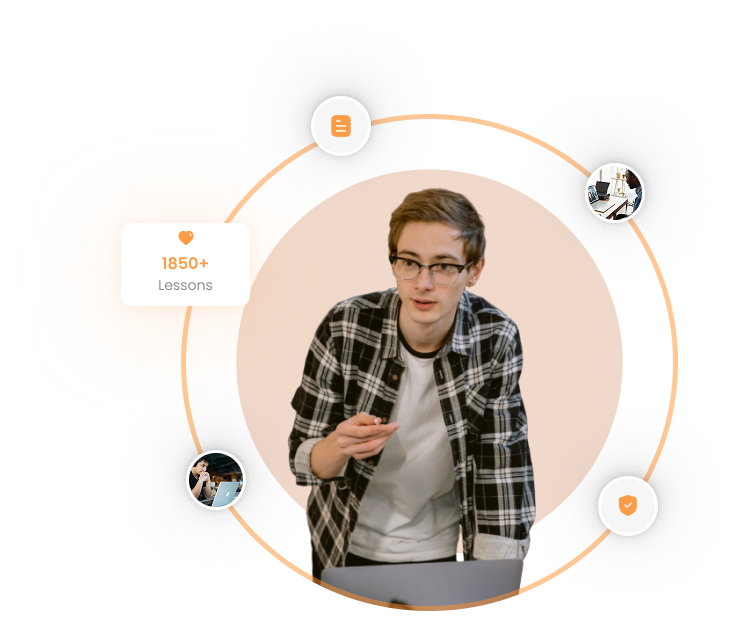
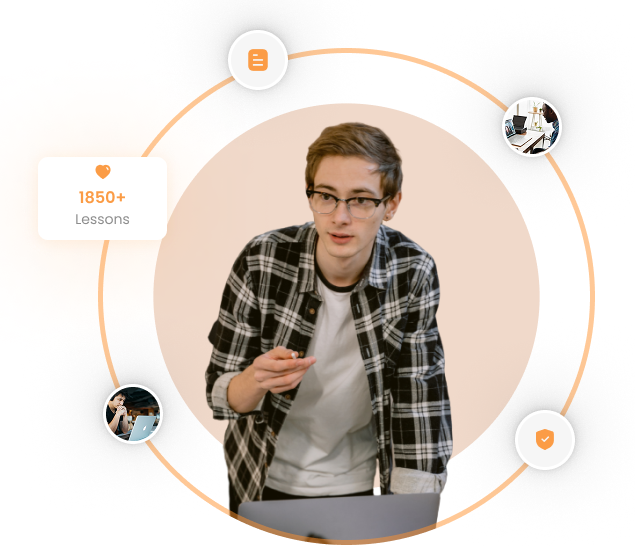
Refactor images and Information section

diff --git a/src/stylesheets/pages/home/_about.scss b/src/stylesheets/pages/home/_about.scss
@@ -28,62 +28,73 @@
         .about-comment {
             @include flex($justify: space-between);
             gap: 1rem;
-            .content {
+            .suround-right {
                 @include flex($direction: column, $justify: center);
-                row-gap: 1rem;
-                .star-list ul {
+                .suround-container {
                     @include flex;
-                }
-                .description {
-                    font-size: 1rem;
-                    font-style: italic;
-                    color: adjust($primary-color, $lightness: 40%);
-                    line-height: 1.8;
-                }
-                .personal-cmt {
-                    @include flex($align: center);
-                    column-gap: 1rem;
-                    padding: 1rem;
-                    border-radius: 0.7rem;
-                    object-fit: contain;
-                    transition: transform 0.3s ease, box-shadow 0.3s ease;
-                    &:hover {
-                        background-color: adjust($background-color, $lightness: -10%);
-                        transform: translateY(-0.3125rem);
-                        box-shadow: 0 0.625rem 1.25rem adjust($primary-color, $lightness: 70%);
-                    }
-                    figure img:hover {
-                        cursor: pointer;
-                    }
-                    .info {
-                        width: 100%;
-                        .name {
+                    width: 100%;
+                    height: auto;
+                    .content {
+                        @include flex($direction: column);
+                        width: 70%;
+                        row-gap: 1rem;
+                        padding: 1rem;
+                        border-radius: 0.7rem;
+                        transition: transform 0.3s ease, box-shadow 0.3s ease;
+                        &:hover {
+                            background-color: adjust($background-color, $lightness: -10%);
+                            transform: translateY(-0.3125rem);
+                            box-shadow: 0 0.625rem 1.25rem adjust($primary-color, $lightness: 70%);
+                        }
+                        .star-list ul {
+                            @include flex;
+                        }
+                        .description {
                             font-size: 1rem;
+                            font-style: italic;
+                            color: adjust($primary-color, $lightness: 40%);
+                            line-height: 1.8;
+                        }
+                        .personal-cmt {
+                            @include flex($align: center);
+                            column-gap: 1rem;
                             object-fit: contain;
-                            max-width: 10rem;
-                            &:hover {
-                                font-weight: 700;
+                            figure img:hover {
                                 cursor: pointer;
                             }
-                        }
-                        .job {
-                            font-size: 0.7rem;
-                            color: adjust($primary-color, $lightness: 40%);
+                            .info {
+                                width: 100%;
+                                .name {
+                                    font-size: 1rem;
+                                    object-fit: contain;
+                                    max-width: 10rem;
+                                    &:hover {
+                                        font-weight: 700;
+                                        cursor: pointer;
+                                    }
+                                }
+                                .job {
+                                    font-size: 0.7rem;
+                                    color: adjust($primary-color, $lightness: 40%);
+                                }
+                            }
                         }
                     }
                     .icon {
-                        right: 0;
-                        width: 3rem;
+                        width: 30%;
                         height: auto;
-                        margin-right: 2rem;
+                        margin-top: 6rem;
+                        object-fit: contain;
                         img {
-                            width: fit-content;
                             &:hover {
                                 cursor: pointer;
-                                filter: drop-shadow(0.3125rem 0.3125rem 0.625rem $secondly-color);
+                                filter: drop-shadow(0 0 0.5rem $secondly-color);
                             }
                         }
                     }
+                }
+                .star-list ul {
+                    @include flex;
                 }
             }
         }
@@ -103,23 +114,28 @@
                 }
             }
             .about-comment {
-                .content {
-                    .description {
-                        font-size: 1rem;
-                        line-height: 1.8;
-                    }
-                    .personal-cmt {
-                        .info {
-                            .name {
-                                font-size: 1.2rem;
-                                margin-bottom: 1rem;
+                .suround-right {
+                    .suround-container {
+                        .content {
+                            width: 80%;
+                            .description {
+                                font-size: 1rem;
+                                line-height: 1.8;
                             }
-                            .job {
-                                font-size: 0.9rem;
+                            .personal-cmt {
+                                .info {
+                                    .name {
+                                        font-size: 1.2rem;
+                                        margin-bottom: 1rem;
+                                    }
+                                    .job {
+                                        font-size: 0.9rem;
+                                    }
+                                }
                             }
                         }
                         .icon {
-                            width: 4.5rem;
+                            width: 20%;
                         }
                     }
                 }
@@ -141,23 +157,28 @@
                 }
             }
             .about-comment {
-                .content {
-                    .description {
-                        font-size: 1rem;
-                        line-height: 1.8;
-                    }
-                    .personal-cmt {
-                        .info {
-                            .name {
-                                font-size: 1.4rem;
-                                margin-bottom: 0.8rem;
-                            }
-                            .job {
+                .suround-right {
+                    .suround-container {
+                        .content {
+                            width: 80%;
+                            .description {
                                 font-size: 1rem;
+                                line-height: 1.8;
+                            }
+                            .personal-cmt {
+                                .info {
+                                    .name {
+                                        font-size: 1.4rem;
+                                        margin-bottom: 0.8rem;
+                                    }
+                                    .job {
+                                        font-size: 1rem;
+                                    }
+                                }
                             }
                         }
                         .icon {
-                            width: 5rem;
+                            width: 20%;
                         }
                     }
                 }

diff --git a/src/layout/main.html b/src/layout/main.html
@@ -146,22 +146,26 @@
                 <figure class="suround">
                     <img src="../assets/icons/suround.png" alt="suround">
                 </figure>
-                <div class="content">
-                    <div class="star-list">
-                        <ul>
-                            <include src="./components/starList.html" locals='{
-                                "list": ["star", "star", "star", "star", "star"]
-                            }'></include>
-                        </ul>
-                    </div>
-                    <p class="description">"With Edu Smart, we can make it easier for you to master a foriegn language, it is important for us to grow and engage with our students</p>
-                    <div class="personal-cmt">
-                        <figure>
-                            <img src="../assets/images/Photo.svg" alt="photo">
-                        </figure>
-                        <div class="info">
-                            <p class="name">Jaqoun Hart</p>
-                            <p class="job">Digital Marketing Executive, Hypebeast</p>
+                <div class="suround-right">
+                    <div class="suround-container">
+                        <div class="content">
+                            <div class="star-list">
+                                <ul>
+                                    <include src="./components/starList.html" locals='{
+                                        "list": ["star", "star", "star", "star", "star"]
+                                    }'></include>
+                                </ul>
+                            </div>
+                            <p class="description">"With Edu Smart, we can make it easier for you to master a foriegn language, it is important for us to grow and engage with our students</p>
+                            <div class="personal-cmt">
+                                <figure>
+                                    <img src="../assets/images/Photo.svg" alt="photo">
+                                </figure>
+                                <div class="info">
+                                    <p class="name">Jaqoun Hart</p>
+                                    <p class="job">Digital Marketing Executive, Hypebeast</p>
+                                </div>
+                            </div>
                         </div>
                         <figure class="icon">
                             <img src="../assets/icons/Group40.svg" alt="photo">

diff --git a/src/stylesheets/pages/home/_information.scss b/src/stylesheets/pages/home/_information.scss
@@ -157,6 +157,7 @@
                 }
             }
             .circle-container {
+                @include flex($align: center);
                 width: 80%;
                 img {
                     width: 100%;
